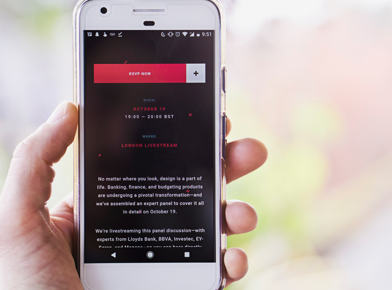
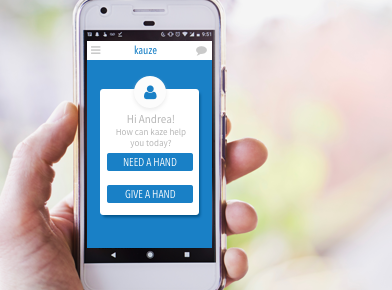
ne wphotos for all pages minus cordata

Changed region(s): [[0.2143, 0.1241, 0.551, 0.869]]

diff --git a/_site/routes/kauze.html b/_site/routes/kauze.html
@@ -28,7 +28,7 @@
     </div>
     <div class="row">
       <div class="col s12">
-        <img src="img/cordata-intake.png" width="100%">
+        <img src="img/kauze-hand-page.png" width="100%">
       </div>
     </div>
     <div class="row">
@@ -36,5 +36,13 @@
         <p> sdfsdfsdf</p>
       </div>
     </div>
+      <div class="row">
+    <div class="col s6">
+      <img src="img/kauze-handspage.png" width="100%">
+    </div>
+    <div class="col s6">
+      <img src="img/cordata-review.png" width="100%">
+    </div>
+  </div>
   </div>
 </div>

diff --git a/routes/kauze.html b/routes/kauze.html
@@ -28,7 +28,7 @@
     </div>
     <div class="row">
       <div class="col s12">
-        <img src="img/cordata-intake.png" width="100%">
+        <img src="img/kauze-hand-page.png" width="100%">
       </div>
     </div>
     <div class="row">
@@ -36,5 +36,13 @@
         <p> sdfsdfsdf</p>
       </div>
     </div>
+      <div class="row">
+    <div class="col s6">
+      <img src="img/kauze-handspage.png" width="100%">
+    </div>
+    <div class="col s6">
+      <img src="img/cordata-review.png" width="100%">
+    </div>
+  </div>
   </div>
 </div>

diff --git a/_site/routes/buildbetterdays.html b/_site/routes/buildbetterdays.html
@@ -29,7 +29,7 @@
     </div>
     <div class="row">
       <div class="col s12">
-        <img src="img/cordata-intake.png" width="100%">
+        <img src="img/bbd-home-top.png" width="100%">
       </div>
     </div>
     <div class="row">
@@ -37,5 +37,12 @@
       <p> sdfsdfsdf</p>
     </div>
   </div>
+    <div class="row">
+      <div class="col s6">
+        <img src="img/bbd-home.png" width="100%">
+      </div>
+      <div class="col s6">
+        <img src="img/bbd-about.png" width="100%">
+      </div>
   </div>
 </div>

diff --git a/routes/buildbetterdays.html b/routes/buildbetterdays.html
@@ -29,7 +29,7 @@
     </div>
     <div class="row">
       <div class="col s12">
-        <img src="img/cordata-intake.png" width="100%">
+        <img src="img/bbd-home-top.png" width="100%">
       </div>
     </div>
     <div class="row">
@@ -37,5 +37,12 @@
       <p> sdfsdfsdf</p>
     </div>
   </div>
+    <div class="row">
+      <div class="col s6">
+        <img src="img/bbd-home.png" width="100%">
+      </div>
+      <div class="col s6">
+        <img src="img/bbd-about.png" width="100%">
+      </div>
   </div>
 </div>
